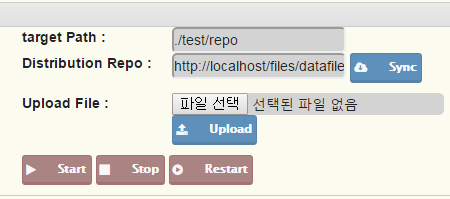
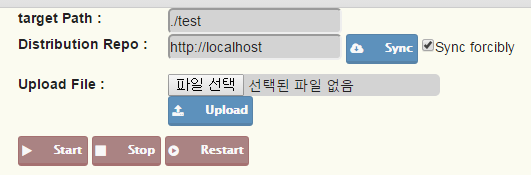
sync with remote repository
add : sync with remote repository
add : makerepoListfile util

diff --git a/CoconutAgent/lib/update_proc.js b/CoconutAgent/lib/update_proc.js
@@ -1,32 +1,11 @@
 var child_proc = require('child_process');
 var fs = require('fs');
+var http = require('http');
+var request = require('request');
 
-exports.download = function(para, ip, callback){
-	
-	if(para.length != 2){
-		console.log( "params are incorrect!!" );
-		callback({'error' : 'params are incorrect!!'}, {'ip':ip});
-		return;
-	}
-
-	var dirList = para[0].split(/[\/]+/);
-	console.log( dirList );
-	var checkFolder = '';
-	for(var i=0;i< dirList.length;i++){
-		checkFolder += dirList[i] + '/';
-		if(fs.existsSync( checkFolder)){
-			console.log( checkFolder + " is existed!");
-		}else{
-			console.log( checkFolder + " is not existed!");
-			fs.mkdirSync(checkFolder);
-		}
-	}
-
-	var fn = para[1].split(/[\/]+/);
-	var saveFn = para[0] + '/' + fn[ fn.length-1];
-
+function downloadRemoteFile(saveFn,remote_addr,cb){
 	var spawn = child_proc.spawn;
-	var cmd = spawn('curl', ['-o' , saveFn , para[1]]);
+	var cmd = spawn('curl', ['-o' , saveFn , remote_addr]);
 	
 	cmd.stdout.on('data', function(data){
 		console.log('stdout: ' + data);
@@ -34,11 +13,91 @@ exports.download = function(para, ip, callback){
 	
 	cmd.stderr.on('data', function(data){
 		console.log('stderr: ' + data);
-		// callback({'error' : data}, {'ip':ip});
 	});
 	
 	cmd.on('exit', function(data){
-		console.log('exit: ' + data);
-		callback(null, {'ret' : data});
+		cb(null, {'ret' : data});
 	});
+}
+
+function mkdir(tarDir, where, remote_where, isAll, ret){
+	for(var r in where){
+		var tar = tarDir+'/'+where[r].name;
+		if(where[r].size == undefined){	//	this is a folder
+			if(false == fs.existsSync( tar) ){
+				fs.mkdirSync( tar);
+			}
+			if(where[r].folder != undefined ){
+				mkdir(tar, where[r].folder, remote_where+'/'+where[r].name,isAll, ret);
+			}
+		}else {	//	this is a file
+			if(true == fs.existsSync( tar) ){
+				var stat = fs.statSync(tar);
+				if( isAll== 1 || stat.size  !=  where[r].size){
+					downloadRemoteFile(tar, remote_where+'/' + where[r].name, function(res){
+						ret += '\r\n >>>>>>>>>>> ' + res;	//	Currently, this code is no meaning.
+					});
+				}
+			}else{
+				downloadRemoteFile(tar, remote_where+'/' + where[r].name, function(res){
+						ret += '\r\n >>>>>>>>>>> ' + res;	//	Currently, this code is no meaning.
+					});
+			}
+		}
+	}
+}
+
+function makeDir(tarDir, where,remote_where, isAll, cb){
+	var ret ='';
+	mkdir(tarDir, where,remote_where, isAll, ret);
+	return cb(ret);
+}
+
+function isRemoteFile(addr){
+	if( addr[addr.length-1] == '/' ){	//	I know, this is xxit, I'll fix this if I'll be known to check attribute about remote file/dir.
+		return false;
+	}
+	return true;
+}
+
+exports.download = function(para, callback){
+	
+	if(para.length != 3){
+		callback({'error' : 'params are incorrect!!'});
+		return;
+	}
+
+	if( isRemoteFile(para[1]) == true ){
+		var dirList = para[0].split(/[\/]+/);
+		var checkFolder = '';
+		for(var i=0;i< dirList.length;i++){
+			checkFolder += dirList[i] + '/';
+			if(false == fs.existsSync( checkFolder)){
+				fs.mkdirSync(checkFolder);
+			}
+		}
+
+		var fn = para[1].split(/[\/]+/);
+		var saveFn = para[0] + '/' + fn[ fn.length-1];
+
+		downloadRemoteFile(saveFn , para[1], function (data){
+			callback(null, {'ret' : data});
+		});
+	}else{
+		http.get(para[1] + 'repoList.json').on('response',function(res){
+			var body = '';
+			var i=0;
+			res.on('data', function(chunk){
+				i++;
+				body += chunk;
+			});
+			res.on('end',function(){
+				var repoList = JSON.parse( body);
+				makeDir( para[0], repoList, para[1], para[2], function(ret){
+					callback(null, {'ret' : ret});
+					console.log( 'repos sync finished!!' );
+				});
+			});
+		});
+	}
 }

diff --git a/CoconutTool/ajax/control_box.html b/CoconutTool/ajax/control_box.html
@@ -180,7 +180,7 @@
 					</td><td width="30"></td>
 				<td>
 					<div> <label>target Path :</label> <input id="target_path" class="pathinputbox"> </div>
- 					<div> <label>Distribution Repo :</label> <input id="dist_path" class="pathinputbox"> <button id="btn-patch" type="button" class="btn btn-info btn-xs btn-label-left"><span><i class="fa fa-cloud-download"></i></span> Sync</button></div>
+ 					<div> <label>Distribution Repo :</label> <input id="dist_path" class="pathinputbox"> <button id="btn-patch" type="button" class="btn btn-info btn-xs btn-label-left"><span><i class="fa fa-cloud-download"></i></span> Sync</button>  <input type="checkbox" id="btn-isAllSync">Sync forcibly</div>
 					<div> <label>Upload File :</label> <input type="file" id="file_path" class="pathinputbox" readonly> <button id="btn-upload-file" type="button" class="btn btn-info btn-xs btn-label-left"><span><i class="fa fa-upload"></i></span> Upload</button>
 					</div>
 					<div>
@@ -994,9 +994,18 @@ $(document).ready(function() {
 			console.log(' no selected server');
 			return;
 		  }
+
+		var checkbox = document.getElementById('btn-isAllSync');
+		var isAll = 0;
+		if(checkbox != undefined && checkbox.checked)
+		{
+			isAll = 1;
+		}
+
 		  var post_data = {
 			'target_path' : tarpath,
 			'dist_repo_path' : distpath,
+			'isAll' : isAll,
 			'servers' : checked_srv_list
 		  };
 		  console.log(post_data);

diff --git a/CoconutTool/externalUtils/makeRepoList/makeRepoListFile.js b/CoconutTool/externalUtils/makeRepoList/makeRepoListFile.js
@@ -1,0 +1,41 @@
+var fs = require('fs');
+
+var data=[];
+var readDir = function(_path, _data, callback){
+	var files = fs.readdirSync(_path);
+	if(files.length > 0 && callback == undefined){
+		_data["folder"] = [];
+		_data = _data["folder"];
+	}
+
+	var index = 0;
+	files.forEach(function(file){
+        var  path = _path+'/'+file;
+        var stat = fs.statSync(path);
+        if(true == stat.isDirectory()){
+        	_data[index] = {"name" : file};
+        	readDir(path,_data[index]);
+        	++index;
+        }else{
+        	if(file != "makeRepoListFile.js" &&
+        	   file != "repoList.json"){
+	        	_data[index] = {"name" : file, "size" : stat.size};
+	        	++index;
+        	}
+        }
+    });
+
+    if(callback != undefined)
+    	callback(_data);
+}
+
+readDir('./', data, function(res){
+	fs.writeFile("./repoList.json", JSON.stringify(res), function(err){
+		if(err)
+			return console.log( 'ERROR !! >> ' + err );
+		console.log(" repoList.json was created!");
+	} );
+});
+
+
+

diff --git a/CoconutManager/routes/viewer_request.js b/CoconutManager/routes/viewer_request.js
@@ -198,7 +198,8 @@ exports.dist_repo_update = function(req,res){
 	
 	//req.body.target_path;
 	//req.body.dist_repo_path;
-	//req.body.servers
+	//req.body.isAll;
+	//req.body.servers;
 	
 	var errlist = [];
 	var succlist = [];
@@ -208,7 +209,7 @@ exports.dist_repo_update = function(req,res){
 		var agentIP = req.body.servers[i].replace('IP_','');
 		console.log( 'try to connect to ' + agentIP);
 		var client = rpcForCli.Client.$create(cfg.getPortAgentRpc(),agentIP);
-		client.call('download', [req.body.target_path, req.body.dist_repo_path],function(err,reply){
+		client.call('download', [req.body.target_path, req.body.dist_repo_path, req.body.isAll],function(err,reply){
 			if(err){
 				console.log('ps request error : ' + err);
 				if(reply === undefined){

diff --git a/CoconutAgent/app.js b/CoconutAgent/app.js
@@ -18,7 +18,6 @@ var app = express();
 
 proc.handshake();
 
-
 //	schedules
 var tsRule0 = new scheduler.RecurrenceRule();
 tsRule0.second = 0;	//	send system info per 1min
@@ -71,7 +70,7 @@ var serv = rpc.Server.$create({
 // Add your methods 
 function download(args, opt, callback){
 	console.log('start download ... ');
-	procUpdate.download(args, ips[ips.length-1], callback);
+	procUpdate.download(args, callback);
 }
 
 serv.expose('ps', cmd.ps);

diff --git a/Document/Manual/09_control.md b/Document/Manual/09_control.md
@@ -39,12 +39,17 @@ Coconut에서는 이런 비용을 최소화 하기 위해 여러가지 기능을
 ![저장소 동기화](resource/repo.png)
 
 원격 저장소와 지정한 디렉토리의 모든 파일을 싱크하거나 원격 저장소의 특정 파일을 지정한 디렉토리에 다운받도록 할 수 있습니다.
-(*2015년 5월 현재 특정 파일을 다운받는 기능이 제작되어 있으며, 저장소와의 동기화 작업은 6월 중 적용 예정입니다.)
 
 (1) target path : 동기화할 폴더를 지정하세요.
 (2) Distribution Repo : 원격 저장소 혹은 원격 저장소의 특정 파일을 지정하세요.
 (3) 하단의 Server List탭에서 파일을 전송할 서버를 선택하세요. 한 개 이상 선택이 되어야 합니다.
 (4) Sync : 해당 버튼을 누르면 동기화 혹은 파일전송이 시작됩니다.
+(5) Sync forcibly : 이를 체크하면 Agent에서 지정한 저장소와 동기화할 때, 같은 파일인지 여부를 확인하지 않고 예외없이 다운받습니다. 단, 파일을 직접 지정한 경우는 예외없이 다운받습니다.
+
+* (2) Distribution Repo 항목을 기록할 때 끝에 /가 있다면 원격 저장소로 판단합니다. 보안 문제로 원격 저장소의 원격에서 파악할 수 없기에 이렇게 결정되었습니다. 더 좋은 의견이 있다면 git issue에 작성을 부탁드립니다.
+* 파일의 갱신여부를 파일의 사이즈로만 판단하고 있습니다. 
+* 원격 저장소의 구조를 파악하기 위해 지정한 원격 저장소에는 repoList.json 이라는 파일이 존재해야 합니다. 이 파일에는 해당 폴더의 모든 폴더와 파일의 정보가 기록되어 있어야 합니다.
+  CoconutTool\externalUtils\makeRepoList 폴더 안의 샘플을 참고하세요. "node makeRepoListFile.js" 로 실행하면 해당 폴더의 정보를 repoList.json 파일에 저장해 줍니다.
 
 
 
